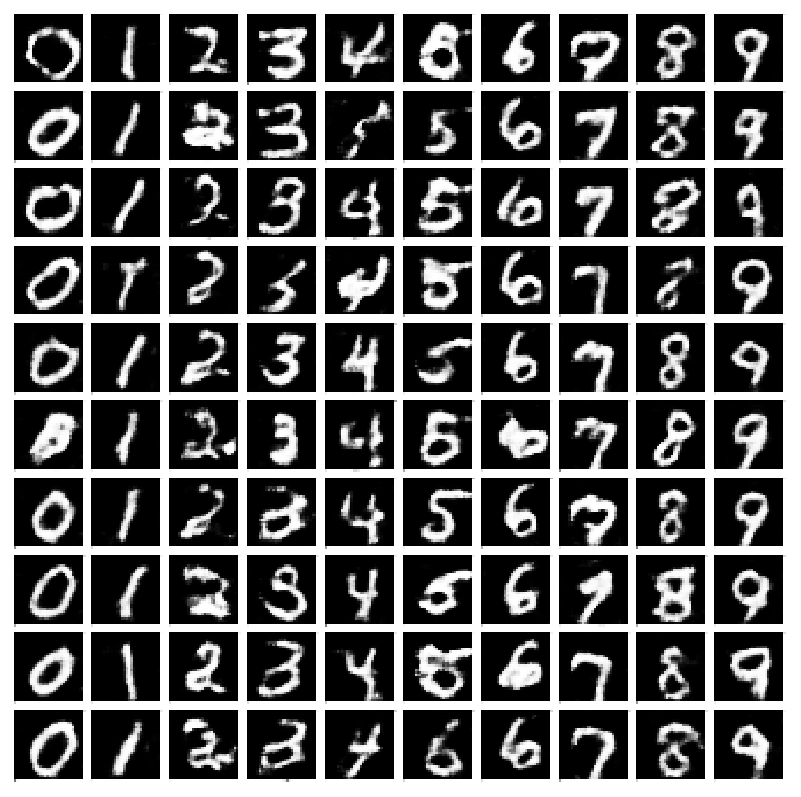
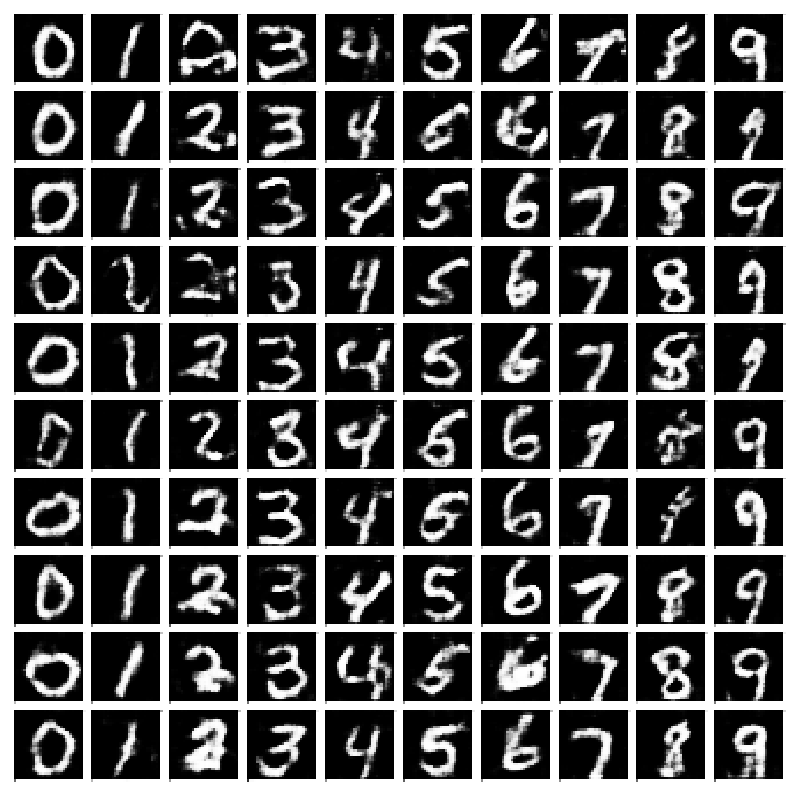
test run with all 3 models

diff --git a/cDCGAN.py b/cDCGAN.py
@@ -299,8 +299,8 @@ if __name__ == "__main__":
     discriminator = DiscrimanatorOrig()
     discriminator.weight_init(mean=0.0, std=0.02)
     image_loader = train_loader
-    epochs = 2
-    num_train_batches = 1
+    epochs = 20
+    num_train_batches = -1
     generator, discriminator = train_gan(generator, discriminator, image_loader, epochs, num_train_batches=num_train_batches)
     print("Training finished")
     # torch.save(generator, generator_filename + ".pt")
